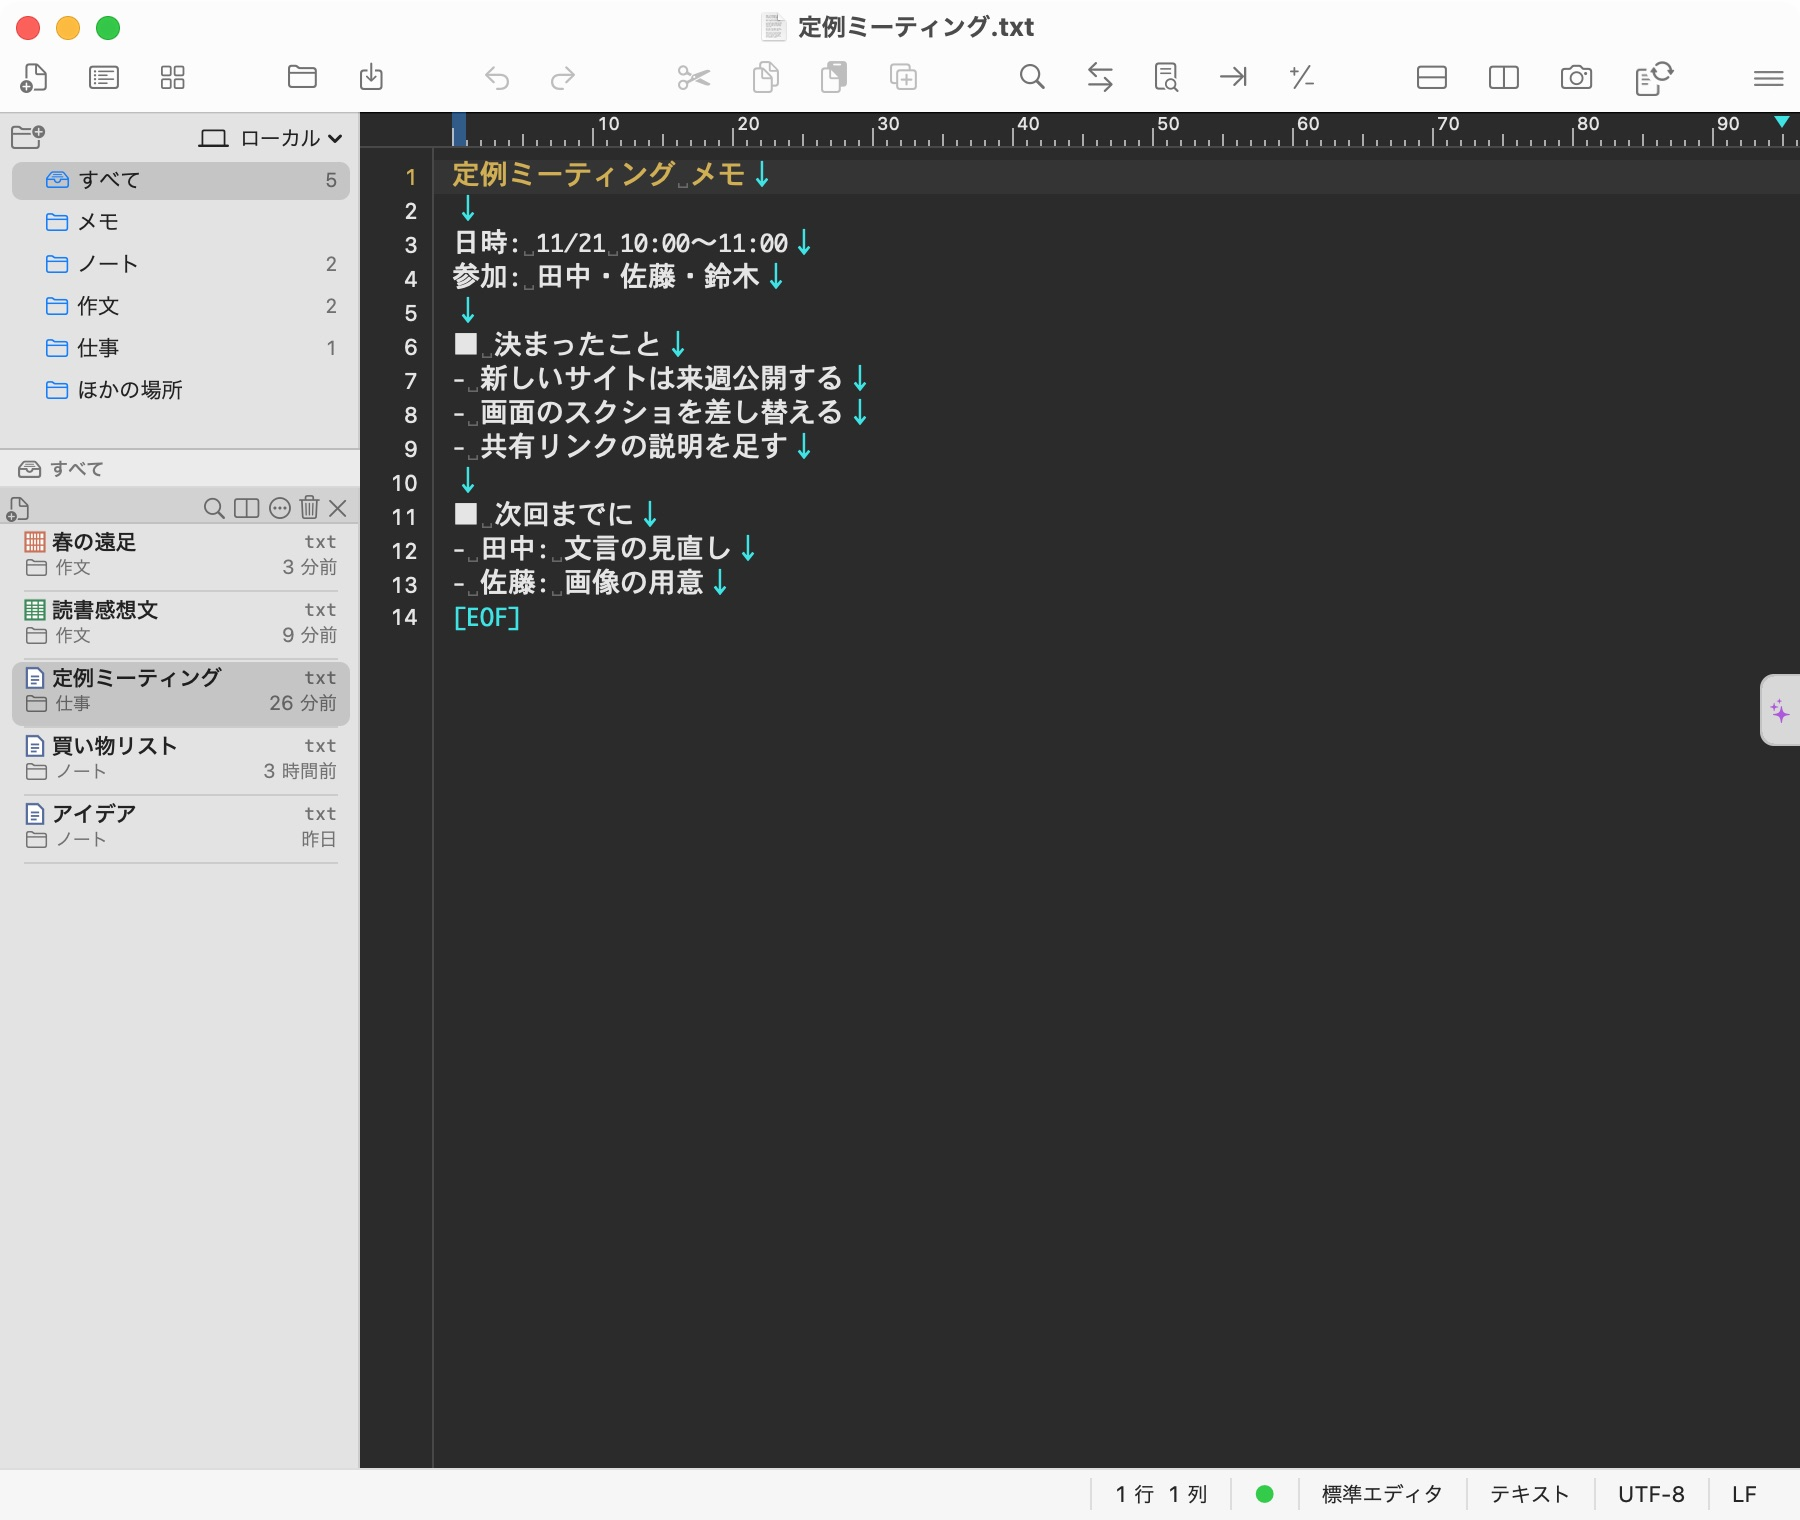
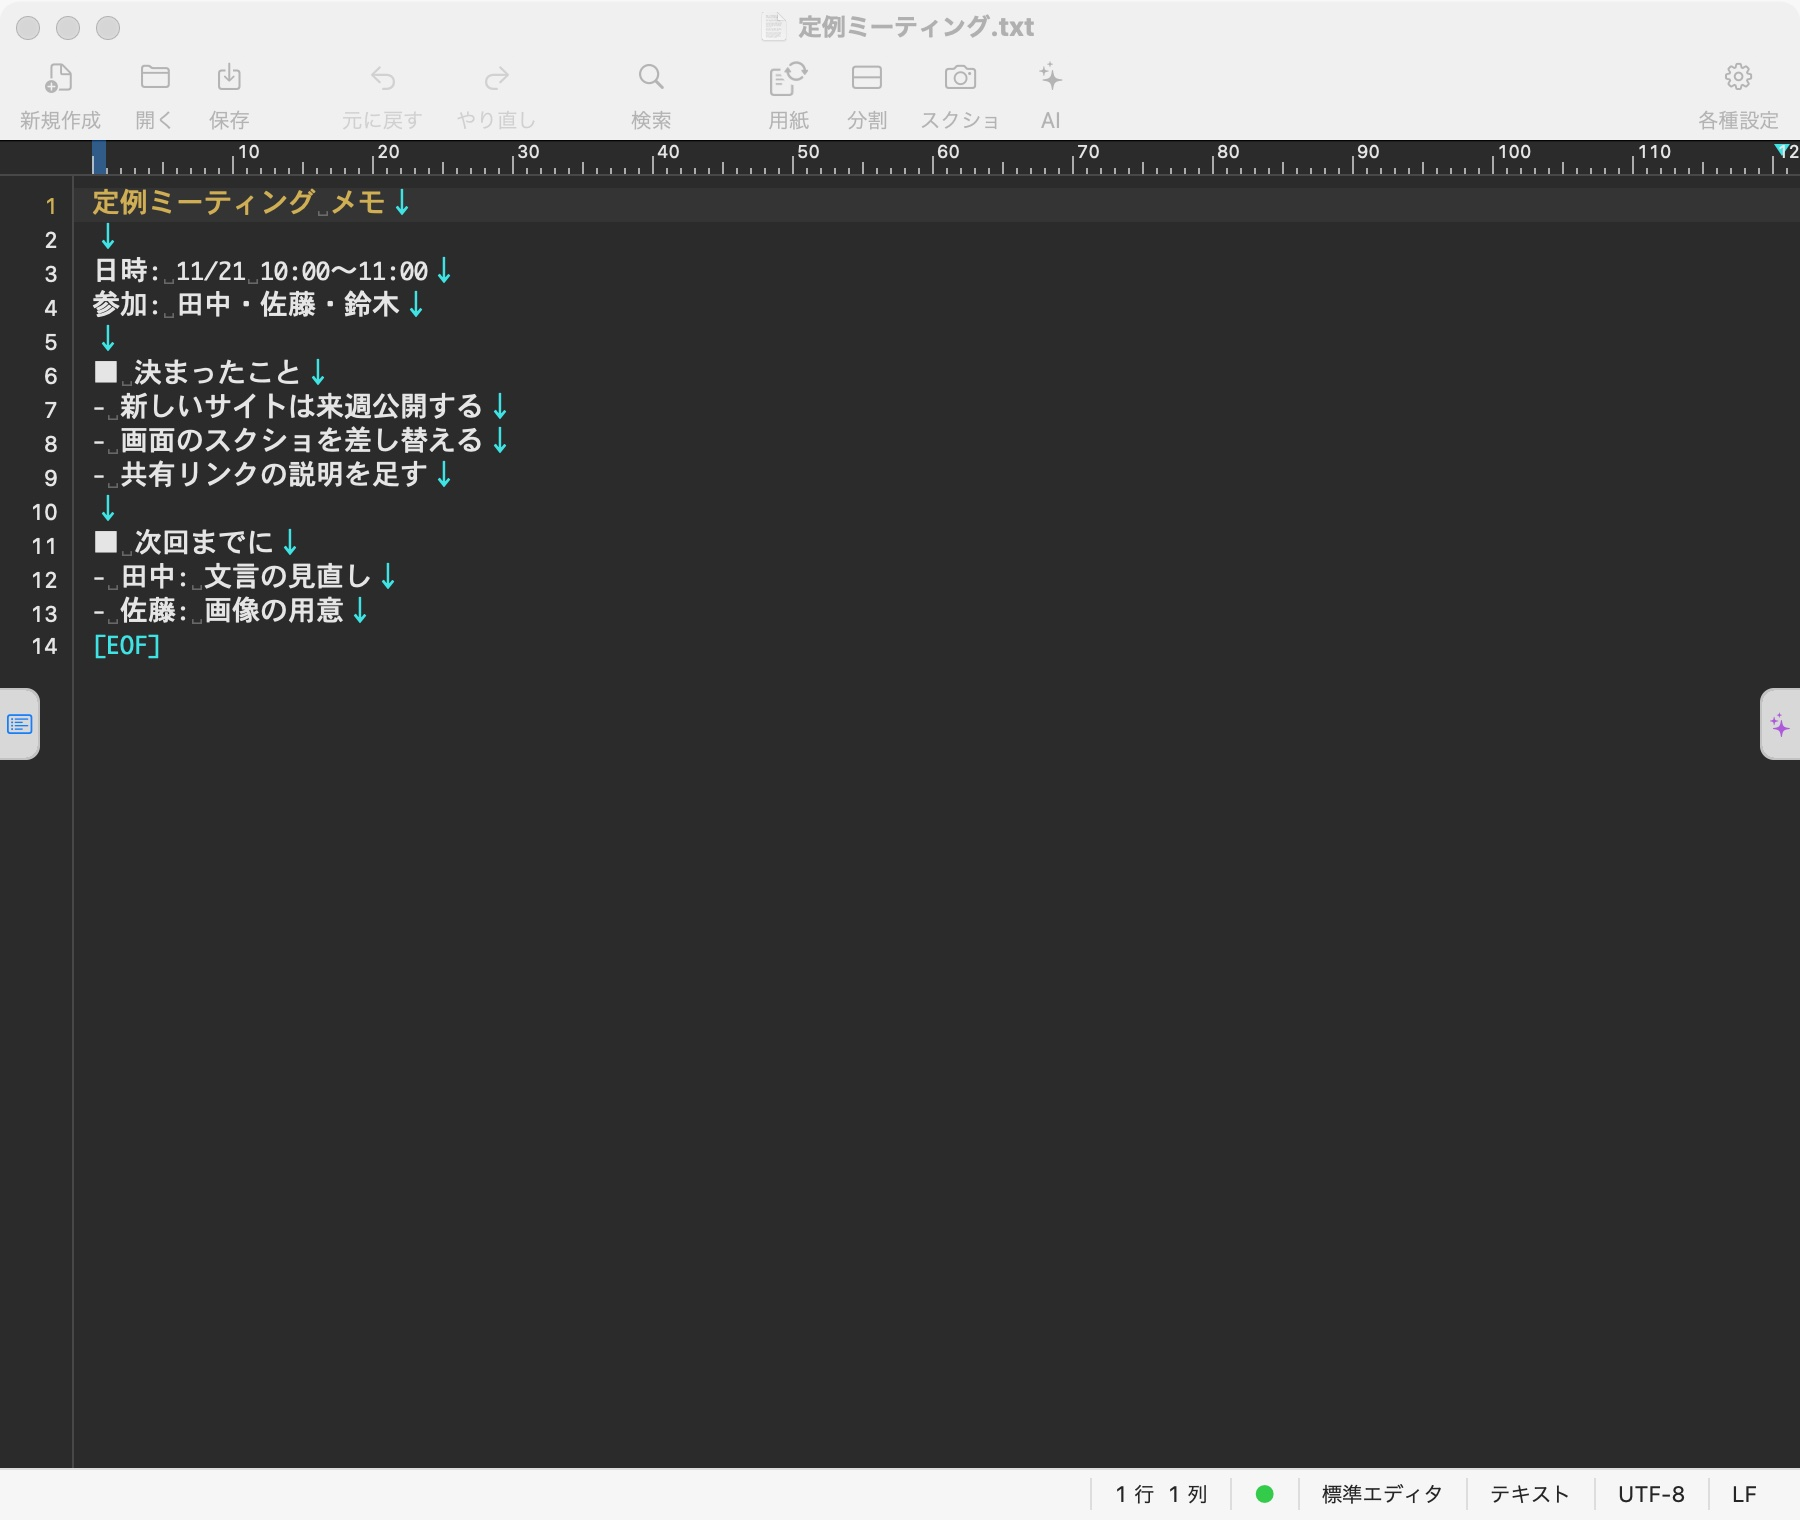
1.0.6: タブと並べた画面の「≡」から、テキスト一覧と同じファイルのメニュー。サイトのエディタの画像を左メニューなしに

Changed region(s): [[0.0, 0.0, 1.0, 0.9895], [0.9644, 0.4329, 1.0, 0.5257]]

diff --git a/server/site/index.html b/server/site/index.html
@@ -212,7 +212,7 @@ th{white-space:nowrap;color:var(--mut);font-weight:600}
   <div class="sec-k">FEATURES</div>
   <h2>できること</h2>
   <div class="four">
-    <div><img src="/site/shot-editor.jpg?v=20261122m" width="1800" height="1520" loading="lazy" alt="標準エディタの画面"><b>エディタ表示</b><p>行番号つきの軽いエディタ。書いたものは一覧にまとまり、版の履歴も残ります。</p></div>
+    <div><img src="/site/shot-editor.jpg?v=20261128e" width="1800" height="1520" loading="lazy" alt="標準エディタの画面"><b>エディタ表示</b><p>行番号つきの軽いエディタ。書いたものは一覧にまとまり、版の履歴も残ります。</p></div>
     <div><div class="gk-swap" id="gk-swap"><div class="gk-tabs" id="gk-tabs" role="tablist"><button type="button" role="tab" aria-selected="true" data-k="v">縦書き</button><button type="button" role="tab" aria-selected="false" data-k="h">横書き</button></div><img src="/site/shot-genko.jpg?v=20261127b" width="1800" height="1520" loading="lazy" alt="原稿用紙 (縦書き) の画面"><img class="gk-b" src="/site/shot-genkoH.jpg?v=20261127b" width="1800" height="1520" loading="lazy" alt="原稿用紙 (横書き) の画面"></div><b>原稿用紙</b><p>縦書き・横書き・A4 にボタン 1 つで。ふりがなや段落の下げも自動。</p></div>
     <div><img src="/site/shot-ai-proof.jpg?v=20261121y" width="1800" height="1520" loading="lazy" alt="AI に誤字を直してもらっている画面"><b>AI 補正 <i class="badge">実験中</i></b><p>誤字直し・要約・続きを書く などを、横から出る欄で頼めます。</p></div>
     <div><a class="sample-shot" href="https://docs.satoru.net/r/76Zc7VLS" target="_blank" rel="noopener"><img src="/site/page-sample.jpg?v=20261122a" width="1280" height="900" loading="lazy" alt="公開した作文のページ"><span class="sample-pill">見本を見る ↗</span></a><b>共有機能 <i class="badge">実験中</i></b><p>URL ひとつで、そのままの見た目で公開。</p></div>
@@ -255,8 +255,8 @@ th{white-space:nowrap;color:var(--mut);font-weight:600}
   <div class="sec-k">DOWNLOAD</div>
   <h2>ダウンロード (無料)</h2>
   <div class="feat">
-    <div><b>Mac 版</b><p>macOS 11 以降 (Apple シリコン / Intel)</p><a class="dl" href="/SatoruEditor-1.0.5-mac.dmg?v=20261128c" download>⬇ ダウンロード (7.8 MB)</a></div>
-    <div><b>Windows 版</b><p>Windows 10 / 11 (64 ビット)</p><a class="dl" href="/SatoruEditor-1.0.5-win-x64-setup.exe?v=20261128c" download>⬇ インストーラー (2.5 MB)</a><a class="dl-sub" href="/SatoruEditor-1.0.5-win-x64-portable.zip?v=20261128c" download>ポータブル版 (zip・2.4 MB)</a><p class="dl-note">インストール不要版、その場ですぐ使える</p></div>
+    <div><b>Mac 版</b><p>macOS 11 以降 (Apple シリコン / Intel)</p><a class="dl" href="/SatoruEditor-1.0.6-mac.dmg?v=20261128f" download>⬇ ダウンロード (7.8 MB)</a></div>
+    <div><b>Windows 版</b><p>Windows 10 / 11 (64 ビット)</p><a class="dl" href="/SatoruEditor-1.0.6-win-x64-setup.exe?v=20261128f" download>⬇ インストーラー (2.5 MB)</a><a class="dl-sub" href="/SatoruEditor-1.0.6-win-x64-portable.zip?v=20261128f" download>ポータブル版 (zip・2.4 MB)</a><p class="dl-note">インストール不要版、その場ですぐ使える</p></div>
   </div>
   <p class="meta">Windows で「PC が保護されました」と出たら、「詳細情報」→「実行」で起動できます。</p>
 </section>

diff --git a/mac/Sources/Hinoki/EditorWindowController.swift b/mac/Sources/Hinoki/EditorWindowController.swift
@@ -1594,16 +1594,32 @@ extension EditorWindowController {
         let key = local ?? ("." + ext)
         guard key != shownTabIconExt || w.tab.accessoryView == nil else { return }
         shownTabIconExt = key
-        let type = ext.isEmpty ? UTType.plainText : (UTType(filenameExtension: ext) ?? .plainText)
-        let image = local.map { NSWorkspace.shared.icon(forFile: $0) } ?? NSWorkspace.shared.icon(for: type)
-        image.size = NSSize(width: 16, height: 16)
-        let iv = NSImageView(image: image)
-        iv.imageScaling = .scaleProportionallyDown
-        iv.translatesAutoresizingMaskIntoConstraints = false
-        iv.widthAnchor.constraint(equalToConstant: 16).isActive = true
-        iv.heightAnchor.constraint(equalToConstant: 16).isActive = true
-        w.tab.accessoryView = iv
+        // ファイルのアイコンの代わりに「≡」: 押すと、テキスト一覧で右クリックしたときと同じこのファイルのメニュー
+        let b = NSButton(image: NSImage(systemSymbolName: "line.3.horizontal", accessibilityDescription: L("このファイルのメニュー")) ?? NSImage(),
+                         target: self, action: #selector(showTabFileMenu(_:)))
+        b.isBordered = false
+        b.toolTip = L("このファイルのメニュー")
+        b.contentTintColor = .secondaryLabelColor
+        b.symbolConfiguration = .init(pointSize: 11, weight: .medium)
+        b.translatesAutoresizingMaskIntoConstraints = false
+        b.widthAnchor.constraint(equalToConstant: 16).isActive = true
+        b.heightAnchor.constraint(equalToConstant: 16).isActive = true
+        w.tab.accessoryView = b
         if madoSplit != nil { PaneCountBadge.refreshAll() }   // 窓割りの画面の数のバッジを付け直す
+    }
+
+    /// タブの「≡」: このファイルのメニュー (テキスト一覧の右クリックと同じ)。まだ保存していない文書は、保存だけ
+    @objc func showTabFileMenu(_ sender: NSButton) {
+        let m: NSMenu
+        if let url = hdoc?.fileURL, hdoc?.remote == nil, let it = TextLibrary.menuItem(for: url) {
+            m = TextLibrary.contextMenu(for: it, target: TextLibraryActions.shared)
+        } else {
+            m = NSMenu()
+            let i = NSMenuItem(title: L("保存…"), action: #selector(NSDocument.save(_:)), keyEquivalent: "")
+            i.target = hdoc
+            m.addItem(i)
+        }
+        m.popUp(positioning: nil, at: NSPoint(x: 0, y: sender.bounds.maxY + 2), in: sender)
     }
 
     /// タブのアイコンを作り直す (窓割りのバッジを外したあと)

diff --git a/windows/renderer/src/app.js b/windows/renderer/src/app.js
@@ -305,6 +305,14 @@ app.focusEditor = function () {
   app.active.target().focus();
 };
 
+/// タブの「≡」のメニュー: 一覧の右クリックと同じ。一覧に無い (保存していない) 文書は、保存だけ
+app.tabFileMenu = async function (tab, el) {
+  const r = el.getBoundingClientRect();
+  const it = tab.path && !tab.remote && app.library && app.library.itemFor(tab.path);
+  const items = it ? await app.library.rowMenuItems(it) : [{ label: t('保存…'), action: () => { app.activate(tab); app.run('file.save'); } }];
+  popupMenu(items, r.left, r.bottom + 2);
+};
+
 app.updateTabs = function () {
   const bar = app.el.tabs;
   if (app.mado) app.mado.titlesChanged();
@@ -334,7 +342,8 @@ app.updateTabs = function () {
         ], e.clientX, e.clientY);
       },
     },
-    fileTypeIcon(tab),
+    // ファイルのアイコンの代わりに「≡」: 押すと、テキスト一覧で右クリックしたときと同じこのファイルのメニュー (Mac 版と同じ)
+    h('span', { class: 'tab-menu', title: t('このファイルのメニュー'), onmousedown: e => e.stopPropagation(), onclick: e => { e.stopPropagation(); app.tabFileMenu(tab, e.currentTarget); } }, '≡'),
     // 窓割りで並べているタブには、並べている窓の数を丸いバッジで出す (Mac 版のタブのバッジと同じ)
     inMado(tab) ? h('span', { class: 'mado-count', title: t('{n} 個の窓に並べています', { n: app.mado.tabs.length }) }, String(app.mado.tabs.length)) : null,
     h('span', { class: 'tab-name' }, (tab.enc ? '🔒 ' : '') + tab.name + (tab.isDirty() ? ' ' + t('＊') : '')),

diff --git a/windows/renderer/src/library.js b/windows/renderer/src/library.js
@@ -1230,6 +1230,11 @@ export class TextLibrary {
   async rowMenu(it, x, y) {
     // いくつも選んでいる中で右クリックしたら、まとめて扱うメニュー
     if (this.picked.size > 1 && this.picked.has(norm(it.path))) { this.multiMenu(this.pickedPaths(), x, y); return; }
+    popupMenu(await this.rowMenuItems(it), x, y);
+  }
+
+  /// 1 件の右クリックのメニューの中身 (並べた画面の見出しのメニューでも使う)
+  async rowMenuItems(it) {
     const app = this.app, share = app.share;
     let versions = [];
     const vOn = this.prefs.versionHistory !== false && this.prefs.libraryEnabled !== false;
@@ -1275,7 +1280,7 @@ export class TextLibrary {
     for (let i = items.length - 1; i >= 0; i--) if (items[i] === null) items.splice(i, 1);
     if (!it.inFolder) items.push({ label: t('一覧から外す (ファイルは残す)'), action: () => this.forget(it.path) });
     items.push({ label: t('削除 (ごみ箱に入れる)'), icon: '🗑', disabled: it.locked, action: () => this.trash([it.path]) });
-    popupMenu(items, x, y);
+    return items;
   }
 
   /// いくつも選んだときの右クリック (まとめて ピン・ロック・移動・削除)

diff --git a/windows/renderer/style.css b/windows/renderer/style.css
@@ -68,6 +68,8 @@ body.no-toolbar #toolbar { display: none; }
 .tab { display: flex; align-items: center; gap: 6px; padding: 3px 6px 3px 10px; max-width: 220px; min-width: 70px; border: 1px solid transparent; border-bottom: none; border-radius: 4px 4px 0 0; color: var(--chrome-dim); margin-bottom: -1px; flex: 0 1 auto; }
 .tab:hover { background: var(--chrome-hover); }
 .tab.active { background: var(--chrome-active); border-color: var(--chrome-border); color: var(--chrome-fg); }
+.tab-menu { flex: 0 0 auto; width: 16px; height: 16px; line-height: 15px; text-align: center; border-radius: 3px; font-size: 14px; color: var(--chrome-dim); cursor: pointer; }
+.tab-menu:hover { background: var(--chrome-hover); color: var(--chrome-fg); }
 .tab-name { overflow: hidden; text-overflow: ellipsis; white-space: nowrap; flex: 1; }
 .tab-close { width: 16px; height: 16px; line-height: 16px; text-align: center; border-radius: 3px; font-size: 10px; flex: 0 0 auto; }
 .tab-close:hover { background: var(--chrome-border); }

diff --git a/windows/renderer/src/mado.js b/windows/renderer/src/mado.js
@@ -243,7 +243,15 @@ export class Mado {
       this.trackDrag(tab, e, () => app.activate(tab));
     });
     head.addEventListener('dblclick', () => this.equalize());
-    head.addEventListener('contextmenu', e => { e.preventDefault(); app.activate(tab); popupMenu(this.paneMenu(tab), e.clientX, e.clientY); });
+    head.addEventListener('contextmenu', async e => {
+      e.preventDefault();
+      app.activate(tab);
+      const x = e.clientX, y = e.clientY;
+      // いちばん上に、テキスト一覧で右クリックしたときと同じ、このファイルのメニュー (Mac 版と同じ)
+      const it = tab.path && app.library && app.library.itemFor(tab.path);
+      const top = it ? await app.library.rowMenuItems(it) : [];
+      popupMenu(top.length ? [...top, 'sep', ...this.paneMenu(tab)] : this.paneMenu(tab), x, y);
+    });
     const body = h('div', { class: 'mado-body' });
     body.append(tab.el);
     const p = h('div', { class: 'mado-pane' }, head, body);

diff --git a/mac/Sources/Hinoki/MadoSplit.swift b/mac/Sources/Hinoki/MadoSplit.swift
@@ -372,6 +372,14 @@ final class TabSplit: NSObject, NSSplitViewDelegate {
             m.addItem(it)
             return it
         }
+        // いちばん上に、テキスト一覧で右クリックしたときと同じ、このファイルのメニュー
+        if let url = c.hdoc?.fileURL, let it = TextLibrary.menuItem(for: url) {
+            for i in TextLibrary.contextMenu(for: it, target: TextLibraryActions.shared).items {
+                i.menu?.removeItem(i)
+                m.addItem(i)
+            }
+            m.addItem(.separator())
+        }
         let mark = item(c.paneMarked ? L("この画面の選択を外す") : L("この画面を選ぶ"),
                         #selector(PaneMenuHandler.toggleMark(_:)), enabled: panes.count > 1)
         mark.state = c.paneMarked ? .on : .off

diff --git a/mac/Sources/Hinoki/TextLibrary.swift b/mac/Sources/Hinoki/TextLibrary.swift
@@ -708,6 +708,13 @@ enum TextLibrary {
             || t.conforms(to: .executable) || t.conforms(to: .font)
     }
 
+    /// 開いている文書の、一覧と同じ右クリックのメニュー用の 1 件 (並べた画面の ≡ から)
+    static func menuItem(for url: URL) -> Item? {
+        guard var it = item(for: url) else { return nil }
+        it.pinned = (UserDefaults.standard.stringArray(forKey: pinnedKey) ?? []).contains(url.path)
+        return it
+    }
+
     /// 一覧の 1 件。テキストでないもの (拡張子か中身がバイナリ) は nil
     private static func item(for url: URL, group g: String??  = .none, modified m: Date? = nil) -> Item? {
         if isNonTextType(url) { return nil }

diff --git a/windows/shared/en.js b/windows/shared/en.js
@@ -462,6 +462,8 @@ module.exports = {
   '新規ファイルの改行コード': 'Line endings for new files',
   '上書き保存の前にバックアップ (ファイル名.bak) を作る': 'Make a backup (filename.bak) before overwriting',
   '{n} 個の窓に並べています': 'Shown in {n} panes',
+  'このファイルのメニュー': 'File menu',
+  '保存…': 'Save…',
   '各種設定': 'Settings',
   'テキスト一覧を出す': 'Show the text list',
   '保存するとき行末の空白を削除する': 'Trim trailing spaces when saving',

diff --git a/windows/renderer/src/host.js b/windows/renderer/src/host.js
@@ -77,7 +77,7 @@ export function installHostAPI() {
   let locale = navigator.language || 'ja';
   let theme = themeDef.defaults();
   let menuState = {};
-  let version = '1.0.5';
+  let version = '1.0.6';
   let priceOverrides = {};
   let menuTimer = null;
 

diff --git a/mac/Sources/HinokiCore/I18nEnglish.swift b/mac/Sources/HinokiCore/I18nEnglish.swift
@@ -3949,6 +3949,12 @@ Close the text list
 テキスト一覧を出す
 Show the text list
 
+このファイルのメニュー
+File menu
+
+保存…
+Save…
+
 各種設定
 Settings
 

diff --git a/windows/host/src/AssemblyInfo.cs b/windows/host/src/AssemblyInfo.cs
@@ -6,6 +6,6 @@ using System.Reflection;
 [assembly: AssemblyDescription("satoEdit (軽量版)")]
 [assembly: AssemblyCompany("satorunet")]
 [assembly: AssemblyCopyright("MIT License")]
-[assembly: AssemblyVersion("1.0.5.0")]
-[assembly: AssemblyFileVersion("1.0.5.0")]
-[assembly: AssemblyInformationalVersion("1.0.5")]
+[assembly: AssemblyVersion("1.0.6.0")]
+[assembly: AssemblyFileVersion("1.0.6.0")]
+[assembly: AssemblyInformationalVersion("1.0.6")]
